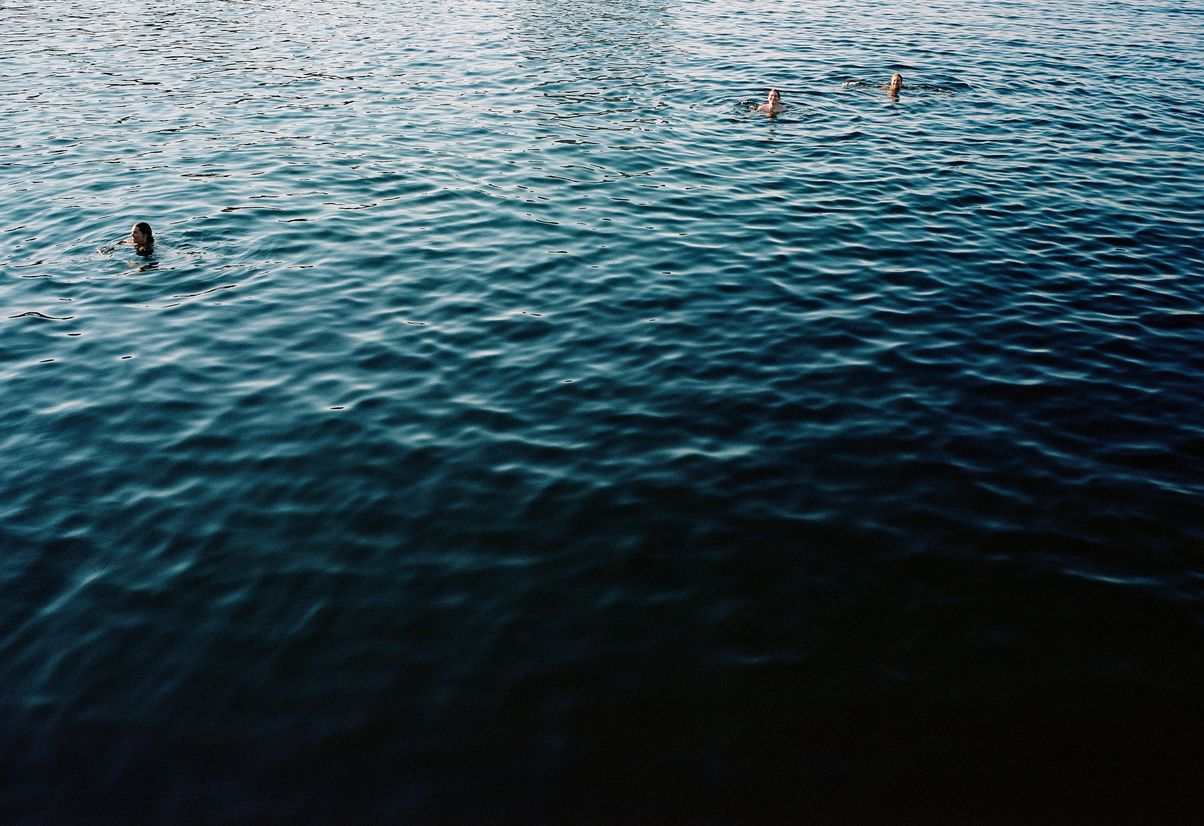
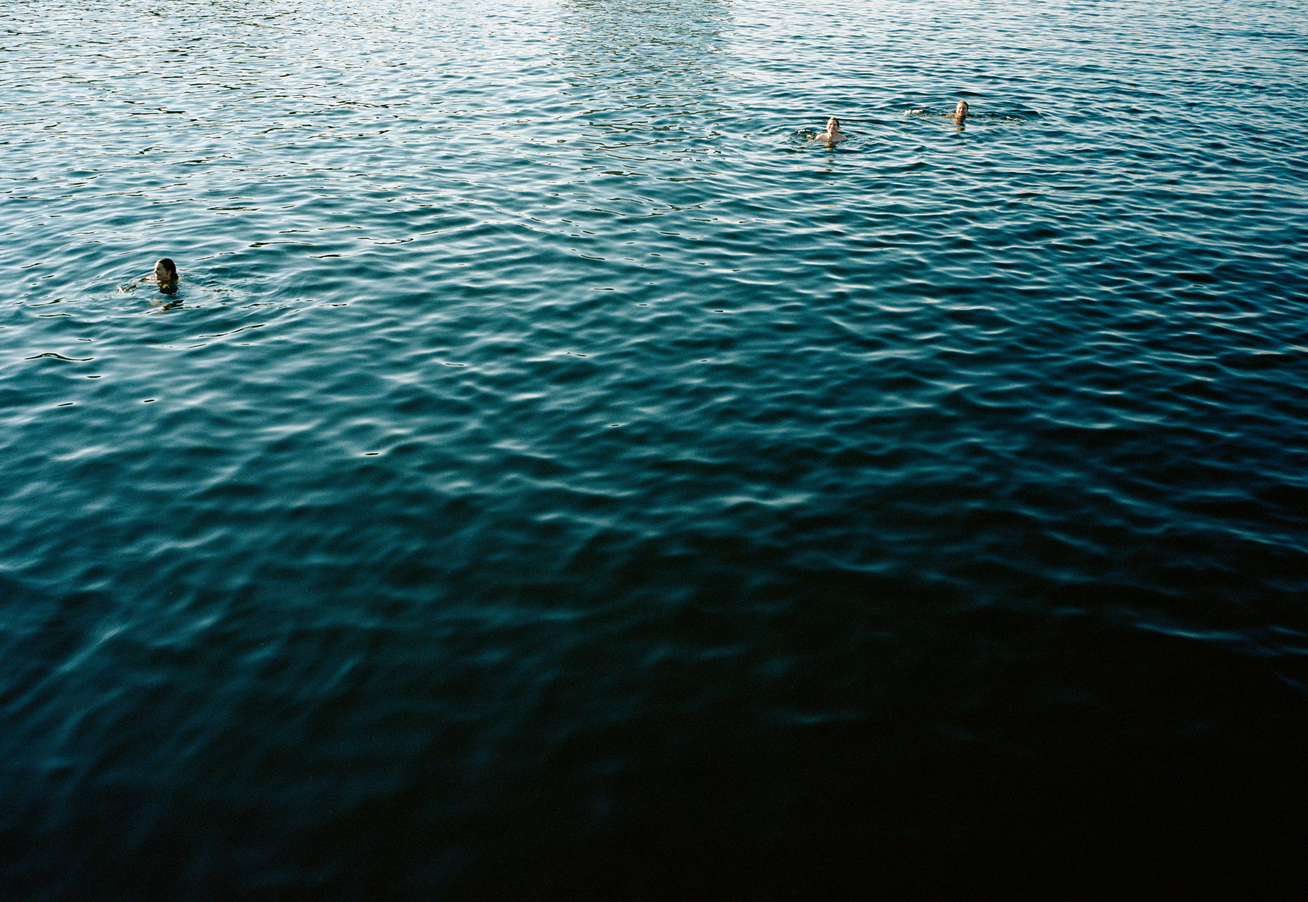
Prefer next/image over <img />

diff --git a/data/photographs.ts b/data/photographs.ts
@@ -3,6 +3,8 @@ export type Photograph = {
   year: number;
   slug: string;
   title: string;
+  width?: number;
+  height?: number;
 };
 
 const photographs: Array<Photograph> = [
@@ -10,133 +12,177 @@ const photographs: Array<Photograph> = [
     publishDate: '2021-07-09',
     year: 2021,
     slug: '2021-lamp-shadow',
-    title: 'Lamp Shadow'
+    title: 'Lamp Shadow',
+    width: 2882,
+    height: 2048
   },
   {
     publishDate: '2021-07-09',
     year: 2021,
     slug: '2021-lake-union',
-    title: 'Lake Union, Seattle'
+    title: 'Lake Union, Seattle',
+    width: 2969,
+    height: 2048
   },
   {
     publishDate: '2021-06-25',
     year: 2021,
     slug: '2021-mopop-2',
-    title: 'MoPOP Museum 2'
+    title: 'MoPOP Museum 2',
+    width: 3200,
+    height: 2048
   },
   {
     publishDate: '2021-06-25',
     year: 2021,
     slug: '2021-mopop-1',
-    title: 'MoPOP Museum 1'
+    title: 'MoPOP Museum 1',
+    width: 2972,
+    height: 2048
   },
   {
     publishDate: '2021-07-06',
     year: 2021,
     slug: '2021-ventura-ca-2',
-    title: 'Ventura California 2'
+    title: 'Ventura California 2',
+    width: 3188,
+    height: 2560
   },
   {
     publishDate: '2021-07-06',
     year: 2021,
     slug: '2021-ventura-ca-1',
-    title: 'Ventura California 1'
+    title: 'Ventura California 1',
+    width: 3432,
+    height: 2560
   },
   {
     publishDate: '2021-06-26',
     year: 2021,
     slug: '2021-ferry-sunset-2',
-    title: 'Ferry Sunset 2'
+    title: 'Ferry Sunset 2',
+    width: 2400,
+    height: 1962
   },
   {
     publishDate: '2021-06-26',
     year: 2021,
     slug: '2021-ferry-sunset-1',
-    title: 'Ferry Sunset 1'
+    title: 'Ferry Sunset 1',
+    width: 2048,
+    height: 1622
   },
   {
     publishDate: '2021-07-13',
     year: 2021,
     slug: '2021-northern-hemisphere-scene-2',
-    title: 'Northern Hemisphere Scene 2'
+    title: 'Northern Hemisphere Scene 2',
+    width: 2554,
+    height: 2048
   },
   {
     publishDate: '2021-06-25',
     year: 2021,
     slug: '2021-northern-hemisphere-scene-1',
-    title: 'Northern Hemisphere Scene 1'
+    title: 'Northern Hemisphere Scene 1',
+    width: 2510,
+    height: 2048
   },
   {
     publishDate: '2021-06-25',
     year: 2020,
     slug: '2020-offworld-alternate',
-    title: 'Offworld Alternate'
+    title: 'Offworld Alternate',
+    width: 2510,
+    height: 2048
   },
   {
     publishDate: '2021-04-22',
     year: 2020,
     slug: '2020-offworld-1',
-    title: 'Offworld 1'
+    title: 'Offworld 1',
+    width: 2048,
+    height: 1651
   },
   {
     publishDate: '2021-04-22',
     year: 2020,
     slug: '2020-offworld-2',
-    title: 'Offworld 2'
+    title: 'Offworld 2',
+    width: 2048,
+    height: 2537
   },
   {
     publishDate: '2021-02-10',
     year: 2020,
     slug: '2020-main-street-usa-1',
-    title: 'Forth Ave, Seattle'
+    title: 'Forth Ave, Seattle',
+    width: 2048,
+    height: 1661
   },
   {
     publishDate: '2021-06-26',
     year: 2020,
     slug: '2020-eastern-wa-2',
-    title: 'Eastern Washington 2'
+    title: 'Eastern Washington 2',
+    width: 2510,
+    height: 1427
   },
   {
     publishDate: '2021-06-26',
     year: 2020,
     slug: '2020-eastern-wa-1',
-    title: 'Eastern Washington 1'
+    title: 'Eastern Washington 1',
+    width: 2430,
+    height: 1357
   },
   {
     publishDate: '2020-12-01',
     year: 2020,
     slug: '2020-fruit',
-    title: 'Fruit'
+    title: 'Fruit',
+    width: 2048,
+    height: 1671
   },
   {
     publishDate: '2021-06-29',
     year: 2020,
     slug: '2020-parliament-and-palm-trees',
-    title: 'Parliament and Palm Trees'
+    title: 'Parliament and Palm Trees',
+    width: 2546,
+    height: 2048
   },
   {
     publishDate: '2020-12-01',
     year: 2020,
     slug: '2020-indexical-1',
-    title: 'Indexical 1'
+    title: 'Indexical 1',
+    width: 2048,
+    height: 1614
   },
   {
     publishDate: '2020-12-01',
     year: 2020,
     slug: '2020-indexical-2',
-    title: 'Indexical 2'
+    title: 'Indexical 2',
+    width: 2048,
+    height: 1654
   },
   {
     publishDate: '2020-12-01',
     year: 2019,
     slug: '2019-viewing-area',
-    title: 'Viewing Area'
+    title: 'Viewing Area',
+    width: 2048,
+    height: 1542
   },
   {
     publishDate: '2020-12-01',
     year: 2010,
     slug: '2010-9600-meilleur',
-    title: '9600 Meilleur'
+    title: '9600 Meilleur',
+    width: 2048,
+    height: 1408
   }
 ];
 

diff --git a/components/photograph-grid.tsx b/components/photograph-grid.tsx
@@ -1,4 +1,5 @@
 import React from 'react';
+import Image from 'next/image';
 import Link from 'next/link';
 import { Photograph } from '../data/photographs';
 import styles from './photograph-grid.module.css';
@@ -13,9 +14,12 @@ const PhotographGrid = ({ photographs }: Props) => (
       <div className={styles.item} key={photograph.slug}>
         <Link href={`/photographs/${photograph.slug}`}>
           <a>
-            <img
-              src={`/images/${photograph.slug}-thumb.jpg`}
+            <Image
+              quality="100"
+              src={`/images/${photograph.slug}.jpg`}
               alt={`${photograph.title}, ${photograph.year}`}
+              width={photograph.width ? photograph.width : 2048}
+              height={photograph.height ? photograph.height : 2048}
             />
           </a>
         </Link>

diff --git a/components/photograph-figure.tsx b/components/photograph-figure.tsx
@@ -1,4 +1,5 @@
 import React from 'react';
+import Image from 'next/image';
 import { Photograph } from '../data/photographs';
 import styles from './photograph-figure.module.css';
 
@@ -9,9 +10,12 @@ type Props = {
 const PhotographFigure = ({ photograph }: Props) => (
   <>
     <figure className={styles.photographFigure}>
-      <img
+      <Image
         src={`/images/${photograph.slug}.jpg`}
         alt={`${photograph.title}, ${photograph.year}`}
+        quality="100"
+        width={photograph.width ? photograph.width : 2048}
+        height={photograph.height ? photograph.height : 2048}
       />
     </figure>
 
